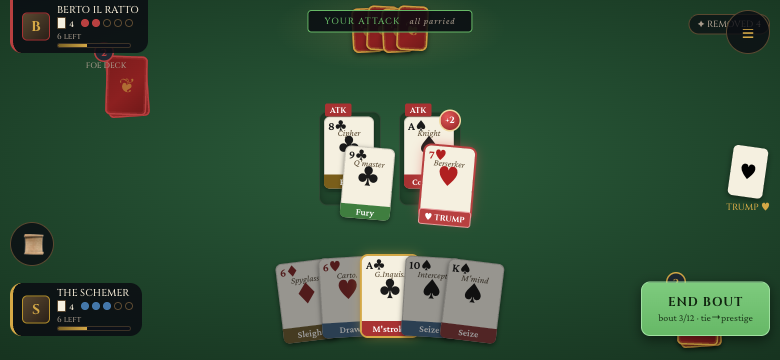
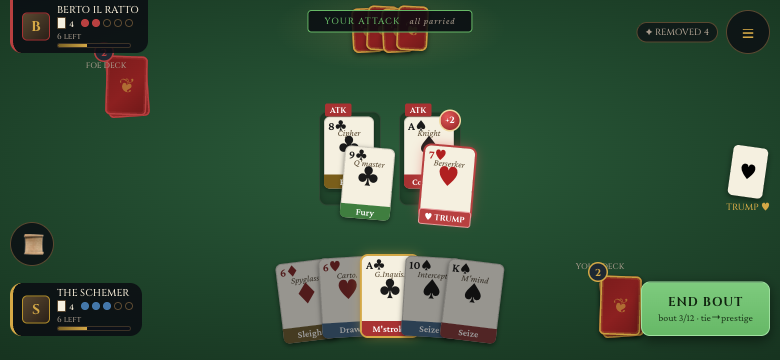
Unified board: move player deck out from under the END BOUT button
The bottom-right corner stacked hand + deck + trump + action; the player
deck tucked under the END BOUT button at the Compact tier (count badge
floating above it). Moved the deck into the open felt gap left of the
button with its label above, clear of the button, trump, hand and bout at
all three tiers (dropped the now-redundant spacious override).

Claude-Session: https://claude.ai/code/session_01LuAbzXxZ2J3iKkxCU8R9Y9

diff --git a/docs/design/unified_board.html b/docs/design/unified_board.html
@@ -81,7 +81,10 @@
   .deck .cnt{position:absolute; right:-8px; bottom:-6px; width:20px; height:20px; border-radius:50%; background:#1E2832; border:1.5px solid var(--gold); color:var(--gold); font-family:'Cinzel',serif; font-weight:700; font-size:10px; display:flex; align-items:center; justify-content:center; z-index:4;}
   .deck .pl{position:absolute; left:50%; transform:translateX(-50%); bottom:-15px; font-family:'Cinzel',serif; font-size:8px; color:var(--dusty-tan); white-space:nowrap;}
   .foe-deck{top:calc(var(--pad) + 46px); left:calc(var(--pad) + 96px);}
-  .you-deck{bottom:calc(var(--safe-b) + 50px); right:calc(var(--pad) + 92px);}
+  /* player deck sits in the open felt left of the action button; label above so it
+     never tucks under the button or the trump/bout. */
+  .you-deck{bottom:calc(var(--safe-b) + 60px); right:calc(var(--pad) + 170px);}
+  .you-deck .pl{bottom:auto; top:-15px;}
 
   /* ===== TRUMP / REMOVED ===== */
   .trump{position:absolute; right:var(--pad); top:50%; transform:translateY(-50%); z-index:25; display:flex; flex-direction:column; align-items:center; gap:3px;}
@@ -136,7 +139,6 @@
     .logdock{display:block; position:absolute; left:var(--pad); top:96px; bottom:170px; width:210px; z-index:18; background:rgba(8,10,16,.78); border:1px solid var(--bronze); border-radius:10px; padding:9px 11px;}
     .logdock h5{font-family:'Cinzel',serif; font-size:11px; color:var(--dusty-tan); letter-spacing:1px; margin-bottom:5px;}
     .logdock .e{font-size:12px; color:var(--dusty-tan); line-height:1.5;} .logdock .e b{color:var(--parchment);} .logdock .e.hot{color:var(--gold);} .logdock .e.hot b{color:var(--gold);}
-    .you-deck{right:calc(var(--pad) + 150px);}  /* nudge deck off the wider action button */
   }
 </style>
 </head>
